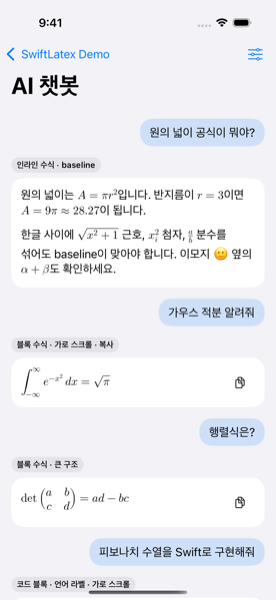
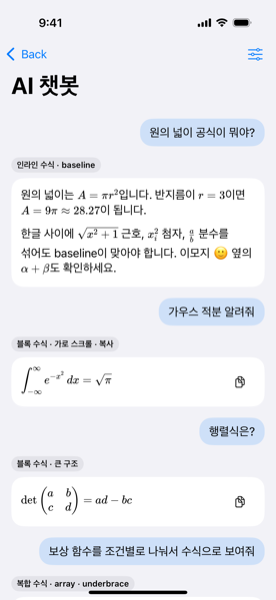
docs: README 스크린샷을 RaTeX 렌더로 교체하고 복합 수식 컷 추가
기존 정지컷은 SwiftMath 시절(옛 이름 SwiftLatex Demo)에 찍혀 0.8.0의
KaTeX 서체 렌더와 달랐다. iPhone 16 Pro / iOS 18.6, 상태 바 9:41로 다시 찍는다.

- 11-complex-math-swiftui, 12-complex-math-uikit: 챗봇 fixture의
  array·underbrace 보상 함수를 SwiftUI·UIKit으로 비교하는 행을 추가한다.
- DocumentationScreenshotTests: UIKit 챗봇 캡처와 케이스 라벨 정렬 헬퍼를
  추가한다. 02-markdown은 고정 swipe 대신 "헤딩 2"를 바 아래로 정렬한다
  (fixture가 늘어 헤딩을 지나치던 문제). 쓰이지 않는 extraSwipes를 제거한다.
- SSE GIF(07·08)는 이번에 다시 만들지 않았다.

diff --git a/Examples/RichMarkdownDemo/UITests/DocumentationScreenshotTests.swift b/Examples/RichMarkdownDemo/UITests/DocumentationScreenshotTests.swift
@@ -33,6 +33,7 @@ final class DocumentationScreenshotTests: XCTestCase {
         XCTAssertTrue(app.navigationBars["RichMarkdown Demo"].waitForExistence(timeout: 30))
 
         captureChatScreens(app)
+        captureUIKitChat(app)
         captureBlockEditor(app)
         // SSE 화면은 정지컷 대신 GIF를 쓴다 — scripts/capture-sse-gifs.sh 참고.
         captureCodeBlockExtension(app)
@@ -52,14 +53,34 @@ final class DocumentationScreenshotTests: XCTestCase {
         )
         capture(named: "01-math")
 
-        // 케이스 라벨이 보이는 시점에는 본문이 화면 아래라 한 번 더 올린다.
-        scroll(app, until: app.staticTexts["헤딩 · 리스트 · 인용 · 구분선 · 링크"], extraSwipes: 1)
+        // 복합 수식 답변은 케이스 라벨을 내비게이션 바 바로 아래에 세워 설명·수식·목록을 한 화면에 담는다.
+        alignComplexMathCase(app, below: app.navigationBars["AI 챗봇"])
+        capture(named: "11-complex-math-swiftui")
+
+        // 고정 swipe 횟수는 앞 fixture 길이에 따라 헤딩을 지나친다. "헤딩 2"를 바 아래에 세워
+        // 헤딩·인라인 강조·리스트·인용·구분선을 한 화면에 담는다.
+        let heading = app.staticTexts["헤딩 2"].firstMatch
+        scroll(app, until: app.staticTexts["헤딩 · 리스트 · 인용 · 구분선 · 링크"])
+        align(app, heading, toY: app.navigationBars["AI 챗봇"].frame.maxY + 12)
         capture(named: "02-markdown")
 
         scroll(app, until: app.staticTexts["GFM 표 · 정렬 · 인라인 콘텐츠"])
         capture(named: "03-table")
 
         app.navigationBars["AI 챗봇"].buttons.firstMatch.tap()
+        XCTAssertTrue(app.navigationBars["RichMarkdown Demo"].waitForExistence(timeout: 30))
+    }
+
+    /// SwiftUI와 같은 fixture를 `RichMarkdownUIView` 셀로 그린 화면에서 복합 수식을 비교한다.
+    @MainActor
+    private func captureUIKitChat(_ app: XCUIApplication) {
+        app.buttons["AI 챗봇 (UIKit)"].firstMatch.tap()
+        let navigationBar = app.navigationBars["UIKit 네이티브"]
+        XCTAssertTrue(navigationBar.waitForExistence(timeout: 30))
+        alignComplexMathCase(app, below: navigationBar)
+        capture(named: "12-complex-math-uikit")
+
+        navigationBar.buttons.firstMatch.tap()
         XCTAssertTrue(app.navigationBars["RichMarkdown Demo"].waitForExistence(timeout: 30))
     }
 
@@ -129,16 +150,20 @@ final class DocumentationScreenshotTests: XCTestCase {
     /// `exists`는 화면 밖 요소도 참이다 (LazyVStack이 a11y tree에 올린다).
     /// 스크린샷은 눈에 보여야 하므로 `isHittable`을 기준으로 스크롤한다.
     @MainActor
-    private func scroll(
-        _ app: XCUIApplication,
-        until element: XCUIElement,
-        extraSwipes: Int = 0
-    ) {
+    private func scroll(_ app: XCUIApplication, until element: XCUIElement) {
         for _ in 0..<25 where !element.isHittable {
             app.swipeUp()
         }
         XCTAssertTrue(element.isHittable, "스크롤 후에도 화면에 보이지 않는다")
-        for _ in 0..<extraSwipes { app.swipeUp() }
+    }
+
+    /// «복합 수식 · array · underbrace» 케이스 라벨을 `navigationBar` 바로 아래로 끌어온다.
+    @MainActor
+    private func alignComplexMathCase(_ app: XCUIApplication, below navigationBar: XCUIElement) {
+        let caseLabel = app.staticTexts["복합 수식 · array · underbrace"].firstMatch
+        XCTAssertTrue(caseLabel.waitForExistence(timeout: 30), "복합 수식 케이스 라벨이 없다")
+        scroll(app, until: caseLabel)
+        align(app, caseLabel, toY: navigationBar.frame.maxY + 12)
     }
 
     /// 세그먼트 컨트롤 아래, 실제 본문이 시작하는 y.

diff --git a/README.md b/README.md
@@ -98,6 +98,11 @@ SSE 스트리밍 GIF는 `scripts/capture-sse-gifs.sh`로 재생성한다.
 | ![인라인과 블록 수식](Docs/screenshots/01-math.png) | ![Markdown 블록과 인라인 강조](Docs/screenshots/02-markdown.png) |
 | 문장 흐름 안에 baseline 정렬된 `\( A = \pi r^2 \)`, 가로 스크롤과 복사 버튼이 붙은 블록 수식(적분·행렬) | 헤딩, 굵게·기울임·취소선, 둥근 인라인 코드 칩, 링크, 리스트, 왼쪽 세로 바로 구분한 인용, 구분선. `\*별표\*` 같은 escape 해제도 함께 |
 
+| 복합 수식 (SwiftUI) | 복합 수식 (UIKit) |
+|---|---|
+| ![array와 두 underbrace로 나눈 보상 함수 수식을 SwiftUI로 렌더한 화면](Docs/screenshots/11-complex-math-swiftui.png) | ![같은 복합 수식을 UIKit RichMarkdownUIView로 렌더한 화면](Docs/screenshots/12-complex-math-uikit.png) |
+| `array` 열 정렬, 분수, 두 `\underbrace`와 아래 라벨을 RaTeX로 조판한다. 화면보다 넓은 열은 가로 스크롤로 본다 | 같은 fixture를 `RichMarkdownUIView` 셀로 그린다. 블록 수식은 native 벡터 뷰라 SwiftUI raster와 같은 KaTeX 서체·메트릭을 쓴다 |
+
 | GFM 표 | Notion 스타일 블록 편집 |
 |---|---|
 | ![정렬과 인라인 콘텐츠를 포함한 GFM 표](Docs/screenshots/03-table.png) | ![하나의 연속 문서에서 편집하는 Notion 스타일 블록 편집기](Docs/screenshots/04-block-editor.png) |
